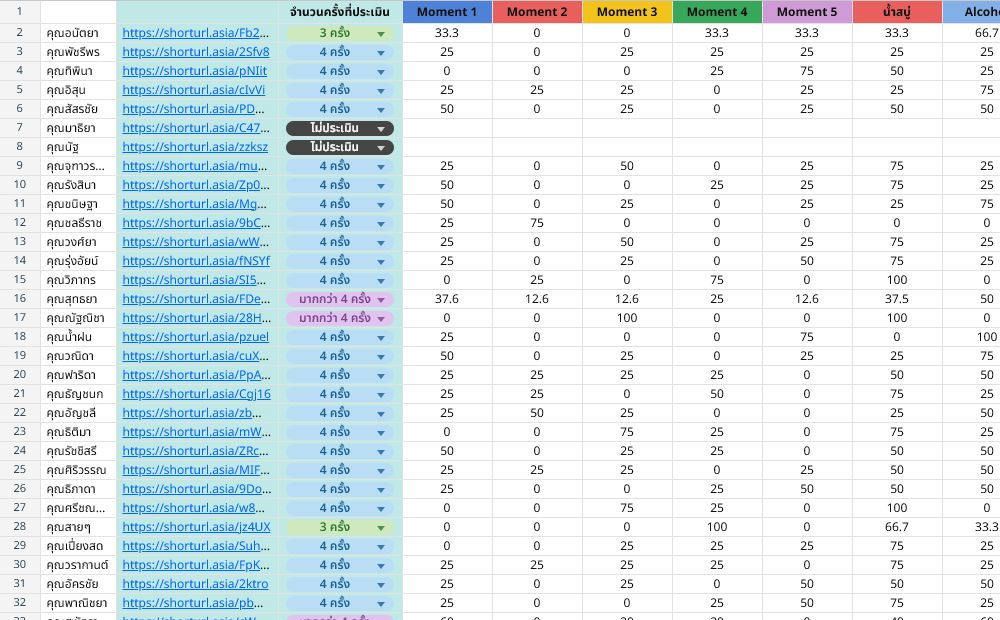
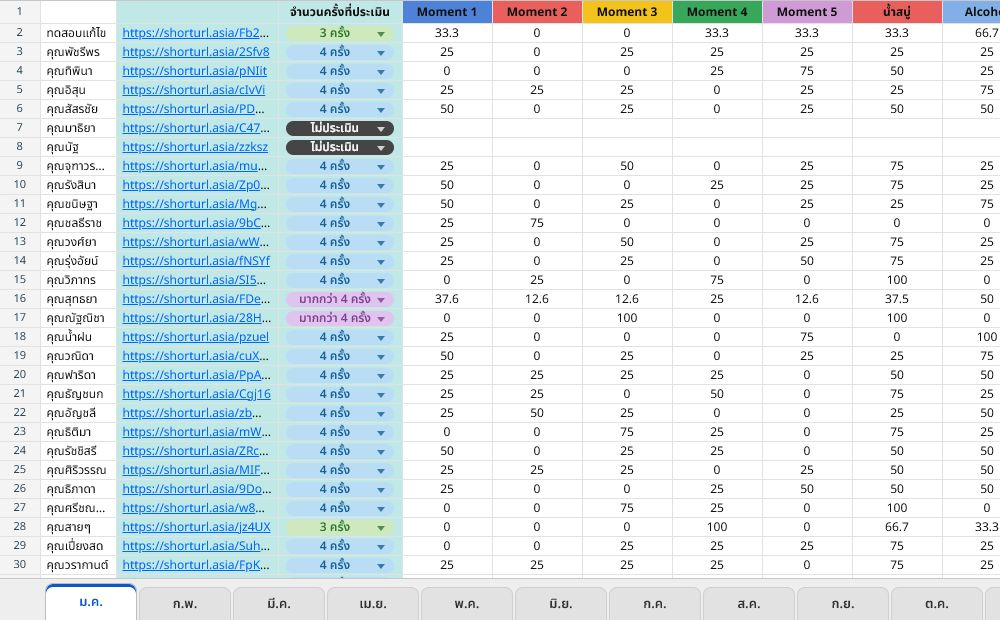
Make sheet cells editable

Changed region(s): [[0.0, 0.9194, 1.0, 1.0], [0.062, 0.0306, 0.124, 0.0613]]

diff --git a/script.js b/script.js
@@ -154,6 +154,17 @@ const tableBody = document.querySelector("#tableBody");
 const monthTabs = document.querySelector("#monthTabs");
 
 let activeMonth = 0;
+const STORAGE_KEY = "summary-hand-editable-sheet-v1";
+
+const headerTitles = columns.map((column) => column.title);
+const savedState = loadSavedState();
+const sheetData = savedState?.sheetData ?? createDefaultSheets();
+
+if (savedState?.headerTitles?.length === headerTitles.length) {
+  savedState.headerTitles.forEach((title, index) => {
+    headerTitles[index] = title;
+  });
+}
 
 function shortCode(index, monthIndex) {
   const alphabet = "ABCDEFGHIJKLMNOPQRSTUVWXYZabcdefghijklmnopqrstuvwxyz0123456789";
@@ -174,6 +185,105 @@ function monthAdjustedValue(value, rowIndex, colIndex, monthIndex) {
   return Number((value + (monthIndex % 3 === 0 ? 0.1 : 0)).toFixed(1));
 }
 
+function createDefaultSheets() {
+  return months.map((_, monthIndex) => ({
+    names: [...names],
+    links: names.map((__, rowIndex) => `https://shorturl.asia/${shortCode(rowIndex, monthIndex)}`),
+    statuses: statusCycle.map((status) => ({ ...status })),
+    rows: baseRows.map((row, rowIndex) =>
+      row.map((value, colIndex) => monthAdjustedValue(value, rowIndex, colIndex, monthIndex)),
+    ),
+    blankRow: columns.map(() => ""),
+    totals: [...totals],
+    totalLabel: "Total",
+    totalUrl: "",
+    totalCount: "",
+  }));
+}
+
+function loadSavedState() {
+  if (typeof localStorage === "undefined") return null;
+  try {
+    const rawState = localStorage.getItem(STORAGE_KEY);
+    return rawState ? JSON.parse(rawState) : null;
+  } catch {
+    return null;
+  }
+}
+
+function saveSheetData() {
+  if (typeof localStorage === "undefined") return;
+  localStorage.setItem(STORAGE_KEY, JSON.stringify({ headerTitles, sheetData }));
+}
+
+function setEditable(element, onSave) {
+  element.contentEditable = "true";
+  element.spellcheck = false;
+  element.tabIndex = 0;
+  element.classList.add("editable-cell");
+  element.addEventListener("focus", () => {
+    element.dataset.beforeEdit = element.textContent;
+  });
+  element.addEventListener("keydown", (event) => {
+    if (event.key === "Enter") {
+      event.preventDefault();
+      element.blur();
+    }
+    if (event.key === "Escape") {
+      event.preventDefault();
+      element.textContent = element.dataset.beforeEdit ?? element.textContent;
+      element.blur();
+    }
+  });
+  element.addEventListener("input", () => {
+    onSave(element.textContent.trim());
+    saveSheetData();
+  });
+  element.addEventListener("blur", () => {
+    onSave(element.textContent.trim());
+    saveSheetData();
+  });
+}
+
+function statusClass(label) {
+  if (label.includes("ไม่")) return "black";
+  if (label.includes("มากกว่า")) return "purple";
+  if (label.includes("3")) return "green";
+  if (label.includes("2")) return "red";
+  return "blue";
+}
+
+function renderEditableText(cell, value, onSave) {
+  cell.textContent = value;
+  setEditable(cell, onSave);
+}
+
+function renderEditableLink(cell, value, onSave) {
+  const linkText = document.createElement("span");
+  linkText.className = "link-text";
+  linkText.textContent = value;
+  cell.append(linkText);
+  setEditable(cell, (text) => {
+    onSave(text);
+    cell.textContent = text;
+    cell.classList.add("editable-cell");
+    cell.contentEditable = "true";
+  });
+}
+
+function renderEditableStatus(cell, status, onSave) {
+  const pill = document.createElement("span");
+  pill.className = `pill ${status.className}`;
+  pill.textContent = status.label;
+  cell.append(pill);
+  setEditable(pill, (text) => {
+    const nextStatus = { label: text, className: statusClass(text) };
+    onSave(nextStatus);
+    pill.className = `pill ${nextStatus.className}`;
+    pill.textContent = text;
+  });
+}
+
 function renderHeader() {
   const headerRow = document.createElement("tr");
   const corner = document.createElement("th");
@@ -181,10 +291,12 @@ function renderHeader() {
   corner.textContent = "1";
   headerRow.append(corner);
 
-  columns.forEach((column) => {
+  columns.forEach((column, index) => {
     const th = document.createElement("th");
     th.className = column.className;
-    th.textContent = column.title;
+    renderEditableText(th, headerTitles[index], (text) => {
+      headerTitles[index] = text;
+    });
     headerRow.append(th);
   });
 
@@ -192,7 +304,8 @@ function renderHeader() {
 }
 
 function renderRows() {
-  const rows = names.map((name, index) => {
+  const currentSheet = sheetData[activeMonth];
+  const rows = currentSheet.names.map((name, index) => {
     const tr = document.createElement("tr");
     const rowNum = document.createElement("td");
     rowNum.className = "row-num";
@@ -201,30 +314,31 @@ function renderRows() {
 
     const nameCell = document.createElement("td");
     nameCell.className = "name-col";
-    nameCell.textContent = name;
+    renderEditableText(nameCell, name, (text) => {
+      currentSheet.names[index] = text;
+    });
     tr.append(nameCell);
 
     const urlCell = document.createElement("td");
     urlCell.className = "url-col";
-    const link = document.createElement("a");
-    link.href = "#";
-    link.textContent = `https://shorturl.asia/${shortCode(index, activeMonth)}`;
-    urlCell.append(link);
+    renderEditableLink(urlCell, currentSheet.links[index], (text) => {
+      currentSheet.links[index] = text;
+    });
     tr.append(urlCell);
 
     const countCell = document.createElement("td");
     countCell.className = "count-col";
-    const status = statusCycle[index];
-    const pill = document.createElement("span");
-    pill.className = `pill ${status.className}`;
-    pill.textContent = status.label;
-    countCell.append(pill);
+    renderEditableStatus(countCell, currentSheet.statuses[index], (nextStatus) => {
+      currentSheet.statuses[index] = nextStatus;
+    });
     tr.append(countCell);
 
-    baseRows[index].forEach((value, colIndex) => {
+    currentSheet.rows[index].forEach((value, colIndex) => {
       const td = document.createElement("td");
       td.className = colIndex === 10 ? "empty-col" : "metric-col";
-      td.textContent = monthAdjustedValue(value, index, colIndex, activeMonth);
+      renderEditableText(td, value, (text) => {
+        currentSheet.rows[index][colIndex] = text;
+      });
       if (index === 10 && colIndex === 10) td.classList.add("selected-cell");
       tr.append(td);
     });
@@ -242,10 +356,13 @@ function renderRows() {
     const td = document.createElement("td");
     td.className = column.className.replace(/h-[a-z0-9-]+/g, "").trim();
     if (index === 2) {
-      const pill = document.createElement("span");
-      pill.className = "pill black";
-      pill.textContent = "";
-      td.append(pill);
+      renderEditableStatus(td, { label: currentSheet.blankRow[index], className: "black" }, (nextStatus) => {
+        currentSheet.blankRow[index] = nextStatus.label;
+      });
+    } else {
+      renderEditableText(td, currentSheet.blankRow[index], (text) => {
+        currentSheet.blankRow[index] = text;
+      });
     }
     blankRow.append(td);
   });
@@ -260,21 +377,31 @@ function renderRows() {
 
   const totalLabel = document.createElement("td");
   totalLabel.className = "name-col total-label";
-  totalLabel.textContent = "Total";
+  renderEditableText(totalLabel, currentSheet.totalLabel ?? "Total", (text) => {
+    currentSheet.totalLabel = text;
+  });
   totalRow.append(totalLabel);
 
   const blankUrl = document.createElement("td");
   blankUrl.className = "url-col";
+  renderEditableText(blankUrl, currentSheet.totalUrl ?? "", (text) => {
+    currentSheet.totalUrl = text;
+  });
   totalRow.append(blankUrl);
 
   const blankCount = document.createElement("td");
   blankCount.className = "count-col";
+  renderEditableText(blankCount, currentSheet.totalCount ?? "", (text) => {
+    currentSheet.totalCount = text;
+  });
   totalRow.append(blankCount);
 
-  totals.forEach((value, index) => {
+  currentSheet.totals.forEach((value, index) => {
     const td = document.createElement("td");
     td.className = index === 10 ? "empty-col" : "metric-col";
-    td.textContent = value;
+    renderEditableText(td, value, (text) => {
+      currentSheet.totals[index] = text;
+    });
     totalRow.append(td);
   });
 
@@ -290,6 +417,7 @@ function renderTabs() {
     button.textContent = month;
     button.addEventListener("click", () => {
       activeMonth = index;
+      renderHeader();
       renderRows();
       renderTabs();
     });

diff --git a/styles.css b/styles.css
@@ -160,9 +160,26 @@ thead .corner {
   background: #ffcf88;
 }
 
-a {
+.link-text {
   color: #06f;
   text-decoration: underline;
+}
+
+.editable-cell {
+  cursor: text;
+  user-select: text;
+}
+
+.editable-cell:focus {
+  position: relative;
+  z-index: 4;
+  outline: 2px solid #3367ff;
+  outline-offset: -2px;
+  background-clip: padding-box;
+}
+
+.pill.editable-cell:focus {
+  outline-offset: 1px;
 }
 
 .pill {
